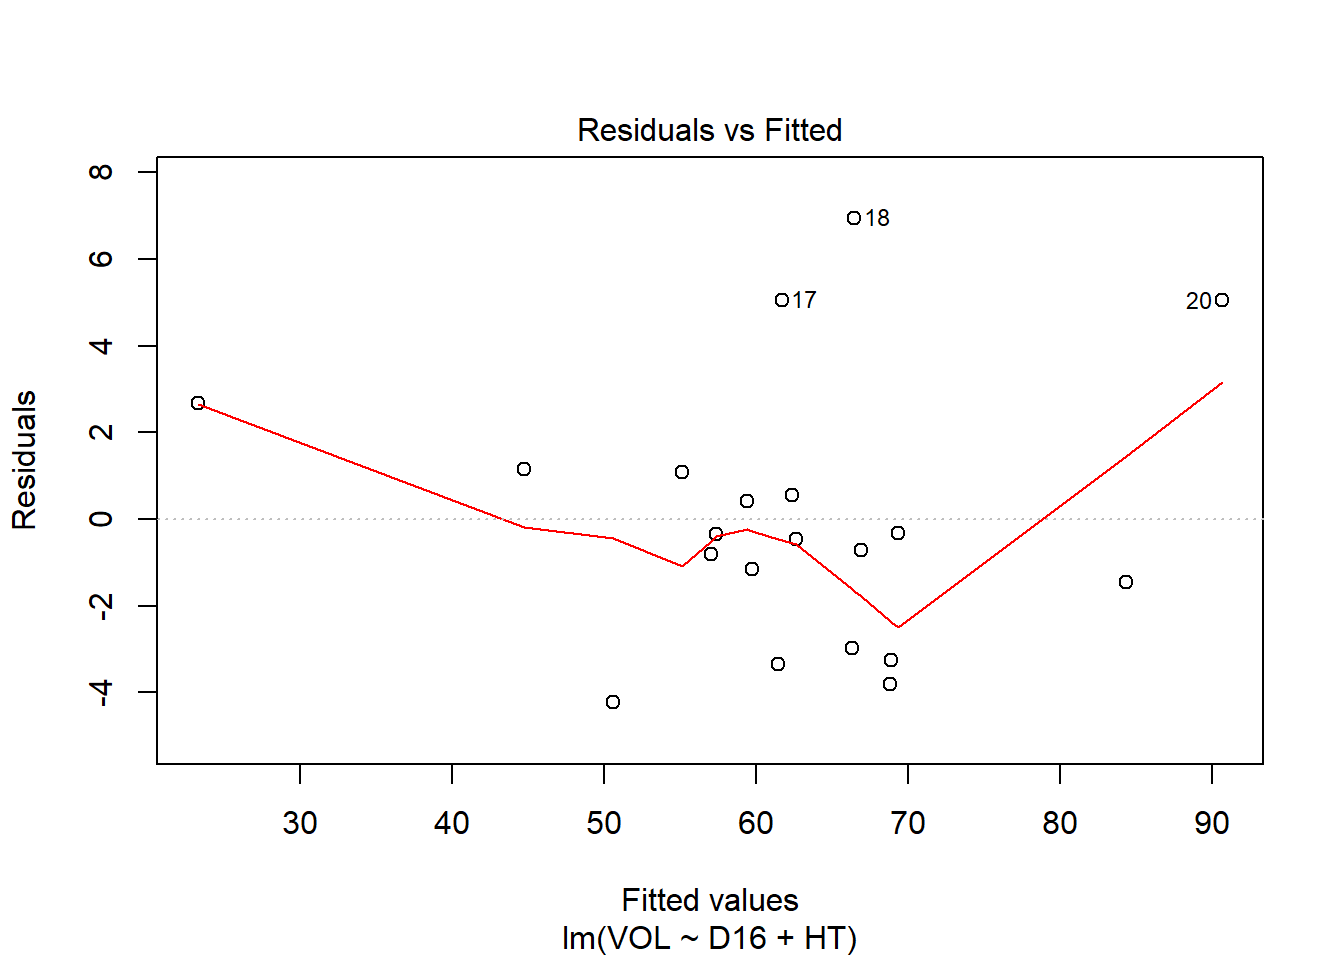
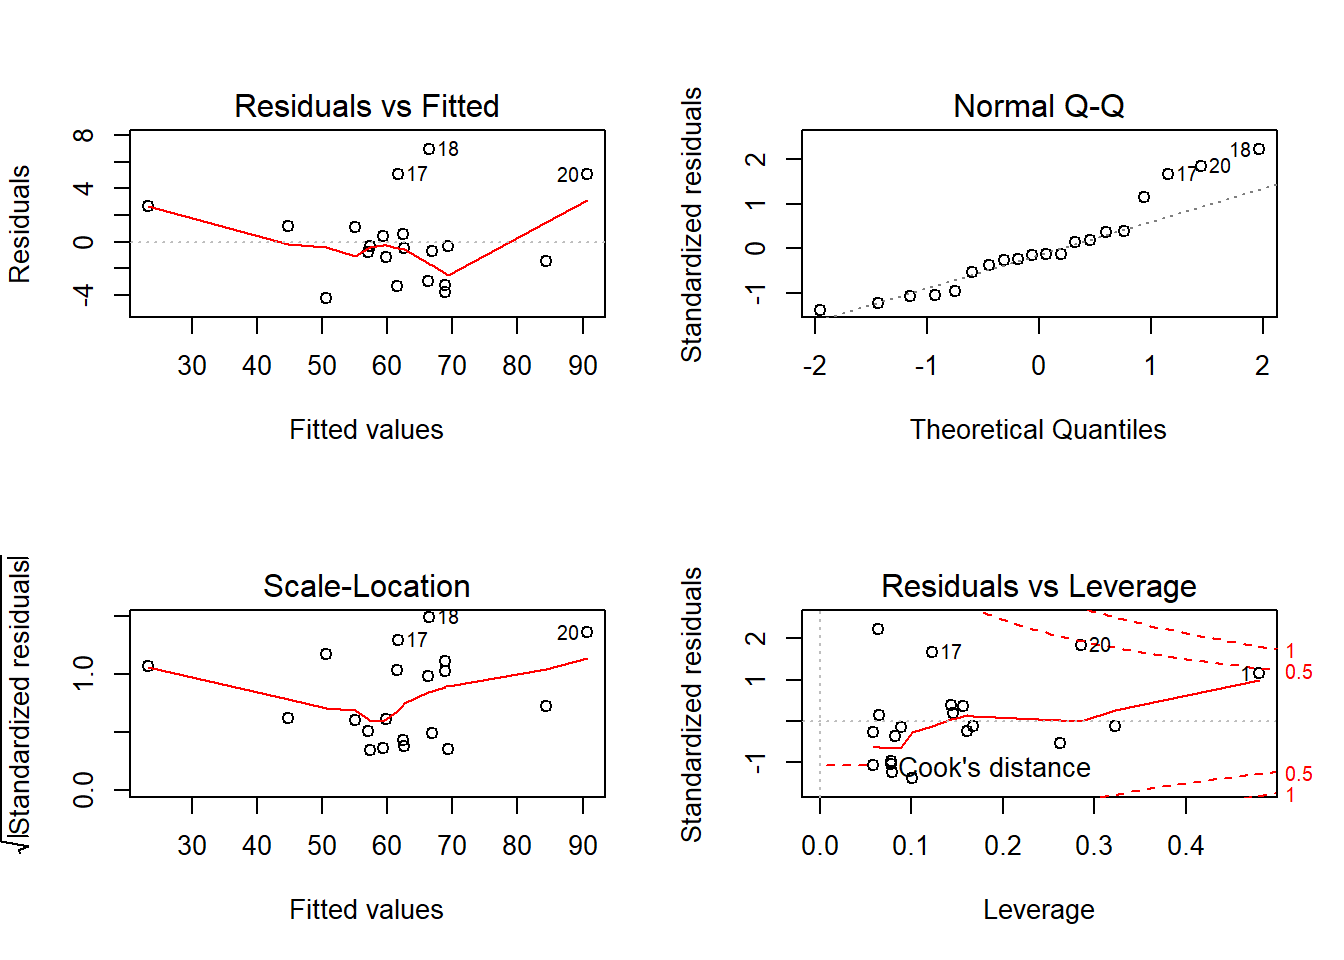
reglineal

diff --git a/regrelineal.html b/regrelineal.html
@@ -243,18 +243,12 @@ $(document).ready(function () {
 
 
 
-<h1 class="title toc-ignore">Regresión lineal</h1>
+<h1 class="title toc-ignore"><strong>Regresión lineal</strong></h1>
 
 </div>
 
 
-
-<p>Permite establecer asociaciones entre variables de interés, entre las cuáles la relación usual no es necesariamente de causa efecto.</p>
-<p>El objetivo es obtener estimaciones razonables de Y para distintos valores de X a partir de una muestra de n pares de valores (x1, y1), . . . ,(xn, yn).</p>
-<div id="antes-de-hacer-un-modelo-de-regresion-lineal" class="section level2">
-<h2>Antes de hacer un modelo de regresión lineal</h2>
-<p>Se deben identificar observaciones extremas, alejadas hacia valores muy grandes o pequeños comparadas con el resto de valores, que puedan influenciar el ajuste de regresión. Para ello se recurre a un análisis descriptivo a través de boxplots ó diagramas de puntos.</p>
-</div>
+<p>Permite establecer asociaciones entre variables de interés, entre las cuáles la relación usual no es necesariamente de causa efecto. El objetivo es obtener estimaciones razonables de Y para distintos valores de X a partir de una muestra de n pares de valores (x1, y1), . . . ,(xn, yn).</p>
 <div id="modelo-de-regresion-lineal-basico" class="section level2">
 <h2>Modelo de regresión lineal básico</h2>
 <p>El modelo más simple de regresión corresponde a: <span class="math display">\[\Large y_i=\beta_0 +\beta_1 X_i+\varepsilon_i\]</span></p>
@@ -295,9 +289,9 @@ $(document).ready(function () {
 <p><img src="regrelineal_files/figure-html/pressure-1.png" width="672" /></p>
 </div>
 <div id="medidas-de-dependencia-lineal" class="section level1">
-<h1>Medidas de dependencia lineal</h1>
+<h1><strong>Medidas de dependencia lineal</strong></h1>
 <div id="covarianza" class="section level2">
-<h2>Covarianza</h2>
+<h2><strong>Covarianza</strong></h2>
 <p>La covarianza indica el grado de variación conjunta de dos variables aleatorias respecto a sus medias</p>
 <p><span class="math display">\[\Large cov(x,y)=\frac{\sum_{i=1}^{n}(x_i-\bar{x})(y_i-\bar{y})}{(n-1)}\]</span> - Si hay relación lineal positiva, la covarianza será positiva y grande.</p>
 <ul>
@@ -307,7 +301,7 @@ $(document).ready(function () {
 </ul>
 </div>
 <div id="coeficiente-de-correlacion" class="section level2">
-<h2>Coeficiente de correlación</h2>
+<h2><strong>Coeficiente de correlación</strong></h2>
 <p>Indica la fuerza y la dirección de una relación lineal y proporcionalidad entre dos variables cuantitativas estadísticas.</p>
 <p><span class="math display">\[\Large cor(x,y)=\frac{\sum_{i=1}^{n}(x_i-\bar{x})(y_i-\bar{y})}
 {\sqrt{\sum_{i=1}^{n}(x_i-\bar{x})^2\sum_{i=1}^{n}(y_i-\bar{y})^2 }}\]</span></p>
@@ -320,7 +314,6 @@ $(document).ready(function () {
 <li><p>Valores cercanos a 1 la relación es fuertemente positiva.</p></li>
 <li><p>Valores cercanos a 0 la relación es débil, es decir no hay una relación lineal</p></li>
 </ul>
-<pre><code>#&gt; Warning: package &#39;png&#39; was built under R version 3.5.2</code></pre>
 <p><img src="regrelineal_files/figure-html/unnamed-chunk-1-1.png" width="672" style="display: block; margin: auto 0 auto auto;" /></p>
 </div>
 <div id="prueba-de-significancia-de-la-correlacion" class="section level2">
@@ -330,18 +323,18 @@ $(document).ready(function () {
 <p>En R usamos la función cor.test() para estudiar la significación estadística del coeficiente y concluir sobre la posible existencia de relación lineal entre las variables.</p>
 </div>
 <div id="medida-de-bondad-de-ajuste-r2" class="section level2">
-<h2>Medida de bondad de ajuste R^2</h2>
+<h2><strong>Medida de bondad de ajuste R^2</strong></h2>
 <p>Mide la proporción de la variabilidad total observada en la respuesta que es explicada por la asociación lineal. Por ser una proporción, esta cantidad varía entre 0 y 1, siendo igual a 0 cuando todos los coeficientes de regresión ajustados son iguales a cero, y es igual a 1 si todas las observaciones caen sobre la superficie de regresión ajustada. Definido como:</p>
 <p><span class="math display">\[\Large R^2=1-\frac{SSE}{SST}=1-\frac{\sum_{i=1}^n (y_i-\hat{y_i})^2}{\sum_{i=1}^n (y_i-\bar{y_i})^2}\]</span> Donde</p>
 <p>SSE: es la suma de cuadrados del error SST: suma de cuadrados totales</p>
 </div>
 <div id="error-de-pronostico-medio-mape" class="section level2">
-<h2>Error de pronóstico medio MAPE</h2>
-<p>Es importante evaluar la capacidad predictiva del modelo. En el trabajo aplicado, comparando los valores observados con los pronosticados, para lo cual se cuenta con el promedio del error porcentual aboluto. Dado por la fórmula:</p>
+<h2><strong>Error de pronóstico medio MAPE</strong></h2>
+<p>Es importante evaluar la capacidad predictiva del modelo. Esta medida compara promedia la diferencia entre los valores observados con los pronosticados. Dado por la fórmula:</p>
 <p><span class="math display">\[\Large MAPE=\frac{\sum_{i=1}^n |\frac{y_i-\hat{y_i}}{y_i}|}{n}\]</span></p>
 </div>
 <div id="estimador-de-minimos-cuadrados" class="section level2">
-<h2>Estimador de mínimos cuadrados</h2>
+<h2><strong>Estimador de mínimos cuadrados</strong></h2>
 <p>Gauss propuso en 1809 el método de mínimos cuadrados para obtener los valores <span class="math inline">\(\hat{\beta_0}, \hat {\beta_1}\)</span> que mejor se ajustan a los datos:</p>
 <p><span class="math display">\[\Large y_i=\beta_0+\beta_1x_i+\varepsilon_i\]</span></p>
 <p>El método consiste en minimizar la suma de los cuadrados de las distancias verticales entre los datos y las estimaciones, es decir, minimizar la suma de los residuos al cuadrado:</p>
@@ -353,9 +346,12 @@ $(document).ready(function () {
 <p><img src="regrelineal_files/figure-html/unnamed-chunk-2-1.png" width="672" style="display: block; margin: auto 0 auto auto;" /></p>
 </div>
 <div id="residuales" class="section level2">
-<h2>Residuales</h2>
+<h2>** Residuales**</h2>
 <p>La diferencia de cada valor <span class="math inline">\(y_i\)</span> de la variable respuesta y su estimación <span class="math inline">\(\hat{y_i}\)</span> se llama residuo. <span class="math display">\[\Large e_i= y_i- \hat{y_i}\]</span></p>
 <p><img src="regrelineal_files/figure-html/unnamed-chunk-3-1.png" width="672" style="display: block; margin: auto 0 auto auto;" /></p>
+</div>
+<div id="test-lineal-general" class="section level2">
+<h2><strong>Test lineal general</strong></h2>
 <p>La varianza de los términos de error <span class="math inline">\(\varepsilon_i\)</span>, es decir, <span class="math inline">\(V[\varepsilon_i]=\sigma^2\)</span>, da un indicador de la variabilidad de las distribuciones de probabilidad de Y para los distintos valores de X. En este caso la suma cuadrática de errores o residuales es:</p>
 <p><span class="math display">\[\Large SSE=\sum_{i=1}^{n}(y_i-\hat{y_i})^2=\sum_{i=1}^n e^2_i\]</span> La SSE tiene asociada n−2 grados de libertad (gl), pues se pierden 2 (gl) al estimar <span class="math inline">\(\beta_0\)</span> y <span class="math inline">\(\beta_1\)</span>, para obtener a <span class="math inline">\(\hat{y_i}\)</span>, de lo anterior se obtiene la media cuadática de errores dada por:</p>
 <p><span class="math display">\[\Large MSE=\frac{SSE}{n-2}=\frac{\sum_{i=1}^{n}(y_i-\hat{y_i})^2}{n-2}=\frac{\sum_{i=1}^n e^2_i}{n-2}\]</span></p>
@@ -539,26 +535,39 @@ anova(md)
 <iframe width="560" height="315" src="https://www.youtube.com/embed/4_WO31Dapv0" frameborder="0" allow="accelerometer; autoplay; encrypted-media; gyroscope; picture-in-picture" allowfullscreen>
 </iframe>
 </div>
-<div id="validacion-de-los-supuestos" class="section level2">
-<h2>Validación de los supuestos</h2>
+<div id="analisis-de-residuales-para-la-validacion-de-los-supuestos" class="section level2">
+<h2><strong>Análisis de residuales para la validación de los supuestos</strong></h2>
 <p>A través del análisis de residuales del modelo es posible detectar la linealidad entre las variables X e Y, la media cero, varianza constante, incorrelación, y normalidad.</p>
-<div id="qqplot" class="section level3">
-<h3>QQplot</h3>
-<p>permite verificar la normalidad de los errores. Si es cierta la normalidad de los residuos, los puntos deben estar alineados con la diagonal.</p>
+<div id="normalidad-en-los-residuales" class="section level3">
+<h3>Normalidad en los residuales</h3>
+<p>Se puede evaluar mediante el gráfico qqplot, en el cual los puntos residuales deben estar alineados con la diagonal, dicha normalidad también se puede evaluar con la prueba de normalidad de shapiro- wilk, con el juego de hipótesis:</p>
+<p><span class="math inline">\(H_o:\)</span>Los residuos son normales</p>
+<p><span class="math inline">\(H_1:\)</span>Los residuos no son normales</p>
 </div>
-<div id="grafico-de-los-residuos-versus-los-valores-ajustados" class="section level3">
-<h3>Gráfico de los residuos versus los valores ajustados</h3>
-<p>Los residuos están distribuidos alrededor del cero y el gráfico no presenta ninguna tendencia, entonces el modelo se considera adecuado. Si se observa una tendencia, estaríamos violando el supuesto de linealidad, y si se observa una nube de puntos en forma de embudo, podemos tener problemas con el supuesto de homocedasticidad de varianzas.</p>
+<div id="varianza-constante" class="section level3">
+<h3>Varianza constante</h3>
+<p>Mediante gráficos de residuales vs. respuesta ajustada y vs. predictora X. Los residuos están distribuidos alrededor del cero y el gráfico no presenta ninguna tendencia, entonces el modelo se considera adecuado. Si se observa una tendencia, estaríamos violando el supuesto de linealidad, y si se observa una nube de puntos en forma de embudo, podemos tener problemas con el supuesto de homocedasticidad de varianzas.</p>
+</div>
+<div id="otros-diagnosticos" class="section level3">
+<h3>Otros diagnósticos</h3>
+<p>Además de la validación de supuestos debemos chequear la presencia de:</p>
+<ul>
+<li>Observaciones atípicas</li>
+<li>Puntos de balanceo</li>
+<li>Observaciones influyentes</li>
+</ul>
 <pre class="r"><code>
 md=lm(cars$dist~cars$speed)
 rr=residuals(md)
 par(mfrow=c(2,2))
 plot(md)</code></pre>
 <p><img src="regrelineal_files/figure-html/unnamed-chunk-8-1.png" width="672" /></p>
-</div>
-<div id="grafico-de-los-residuos-versus-los-valores-ajustados-1" class="section level3">
-<h3>Gráfico de los residuos versus los valores ajustados</h3>
-<p>Si los residuos están distribuidos alrededor del cero y el gráfico no presenta ninguna tendencia, entonces el modelo se considera adecuado. Note que si se observa una tendencia, estaríamos violando el supuesto de linealidad (lo cual sugiere alguna transformación), y si se observa una nube de puntos en forma de embudo, podemos tener problemas con el supuesto de homocedasticidad de varianzas.</p>
+<pre class="r"><code>shapiro.test(rr)
+#&gt; 
+#&gt;  Shapiro-Wilk normality test
+#&gt; 
+#&gt; data:  rr
+#&gt; W = 0.94509, p-value = 0.02152</code></pre>
 </div>
 </div>
 <div id="regresion-lineal-multiple" class="section level2">
@@ -571,43 +580,6 @@ plot(md)</code></pre>
 <p>Las variables predictoras pueden ser:</p>
 <p> Cuantitativas, caso en el cual se supone se miden sin error (o el error es despreciable).</p>
 <p> Cualitativas o categóricas, en este caso su manejo en el modelo se realiza a través de la definición de variables indicadoras, las cuales toman valores de 0 ó 1.</p>
-</div>
-<div id="tabla-de-resumen-del-analisis-de-varianza-1" class="section level2">
-<h2>Tabla de resumen del análisis de varianza</h2>
-<table>
-<thead>
-<tr class="header">
-<th>Factor</th>
-<th>Grados de libertad</th>
-<th>Suma de cuadrados</th>
-<th>Medias cuadráticas</th>
-<th>Estadístico</th>
-</tr>
-</thead>
-<tbody>
-<tr class="odd">
-<td>Regresión</td>
-<td>p-1</td>
-<td>SSR</td>
-<td>MSR</td>
-<td>Fc</td>
-</tr>
-<tr class="even">
-<td>Error</td>
-<td>n-p</td>
-<td>SSE</td>
-<td>MSE</td>
-<td></td>
-</tr>
-<tr class="odd">
-<td>Total</td>
-<td>n-1</td>
-<td>SST</td>
-<td>MST</td>
-<td></td>
-</tr>
-</tbody>
-</table>
 <div id="regresion-lineal-con-variables-indicadoras" class="section level3">
 <h3><strong>Regresión lineal con variables indicadoras</strong></h3>
 <p>Suponga que en un modelo de regresión para el gasto mensual por familia en actividades recreativas, se tiene entre las variables predictoras el estrato socioeconómico, definido en cinco niveles, luego, para cada nivel se define una variable indicadora de la siguiente forma:</p>
@@ -756,8 +728,6 @@ plot(bosque)</code></pre>
 ###correlaciones entre variables
 #install.packages(ppcor)
 library(ppcor)
-#&gt; Warning: package &#39;ppcor&#39; was built under R version 3.5.3
-#&gt; Loading required package: MASS
 pcor(bosque)
 #&gt; $estimate
 #&gt;           VOL        DBH        D16         HT
@@ -821,8 +791,9 @@ anova(m1)
 #&gt; Residuals 17  177.4    10.4                      
 #&gt; ---
 #&gt; Signif. codes:  0 &#39;***&#39; 0.001 &#39;**&#39; 0.01 &#39;*&#39; 0.05 &#39;.&#39; 0.1 &#39; &#39; 1
+par(mfrow=c(2,2))
 plot(m1)</code></pre>
-<p><img src="regrelineal_files/figure-html/unnamed-chunk-16-1.png" width="672" /><img src="regrelineal_files/figure-html/unnamed-chunk-16-2.png" width="672" /><img src="regrelineal_files/figure-html/unnamed-chunk-16-3.png" width="672" /><img src="regrelineal_files/figure-html/unnamed-chunk-16-4.png" width="672" /> el modelo ajustado corresponde a:</p>
+<p><img src="regrelineal_files/figure-html/unnamed-chunk-16-1.png" width="672" /> el modelo ajustado corresponde a:</p>
 <p><span class="math display">\[\hat y=-105.9027+7.41D16+0.67HT\]</span></p>
 </div>
 </div>
